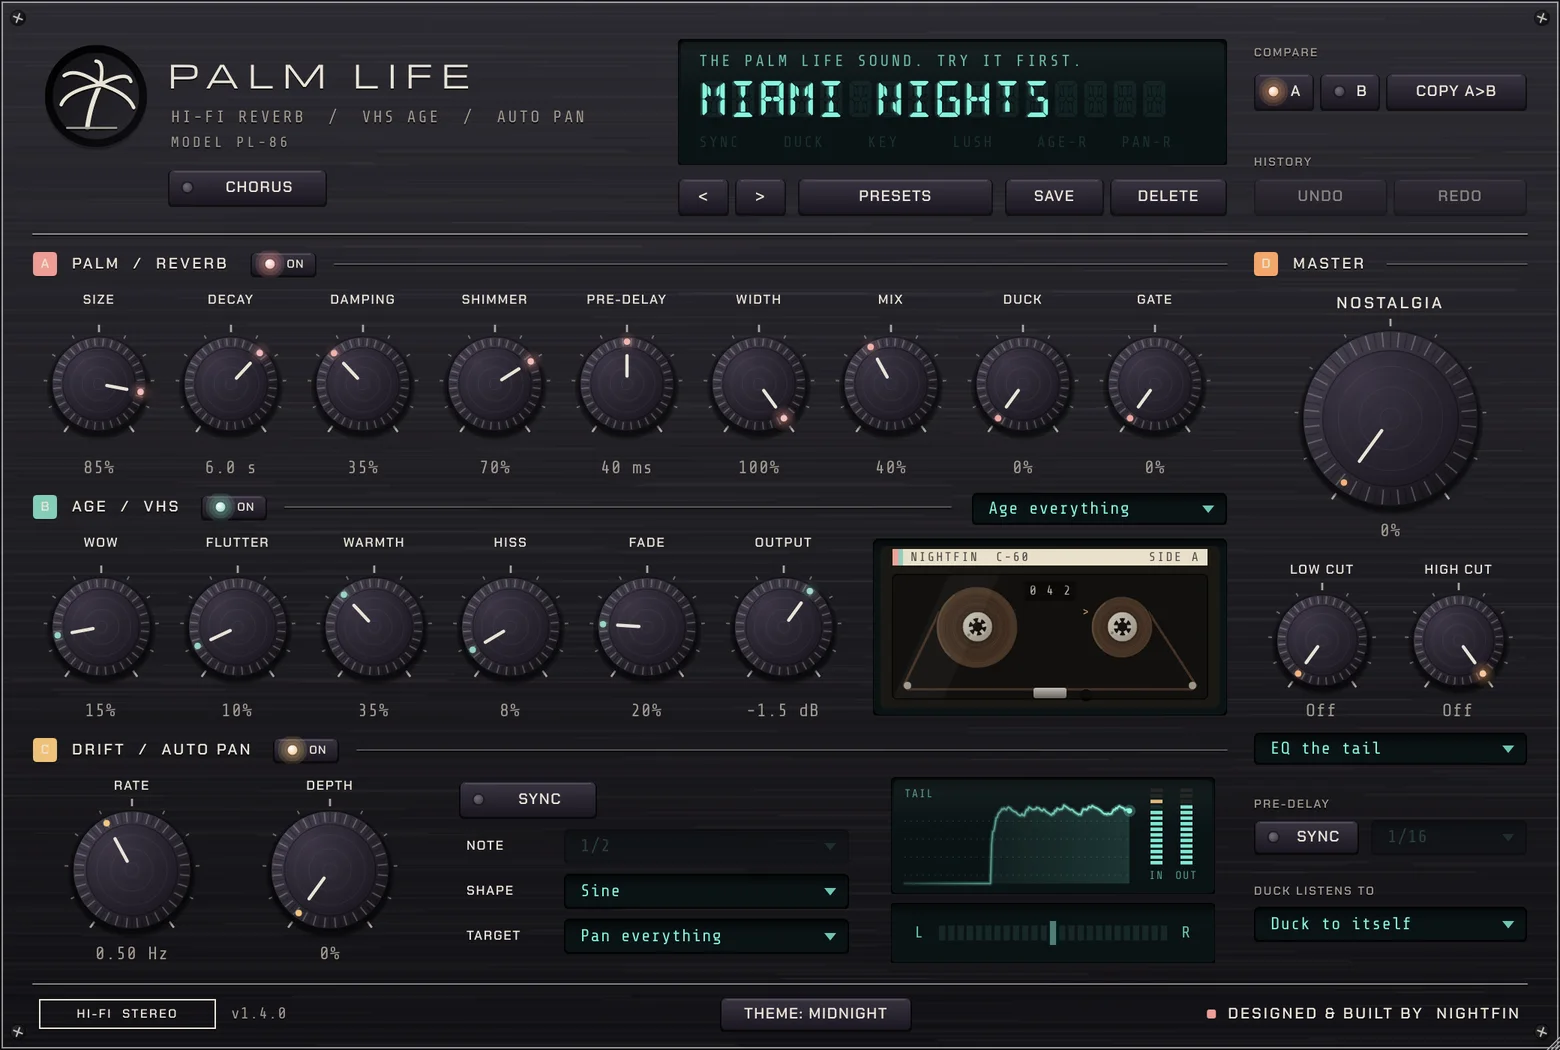
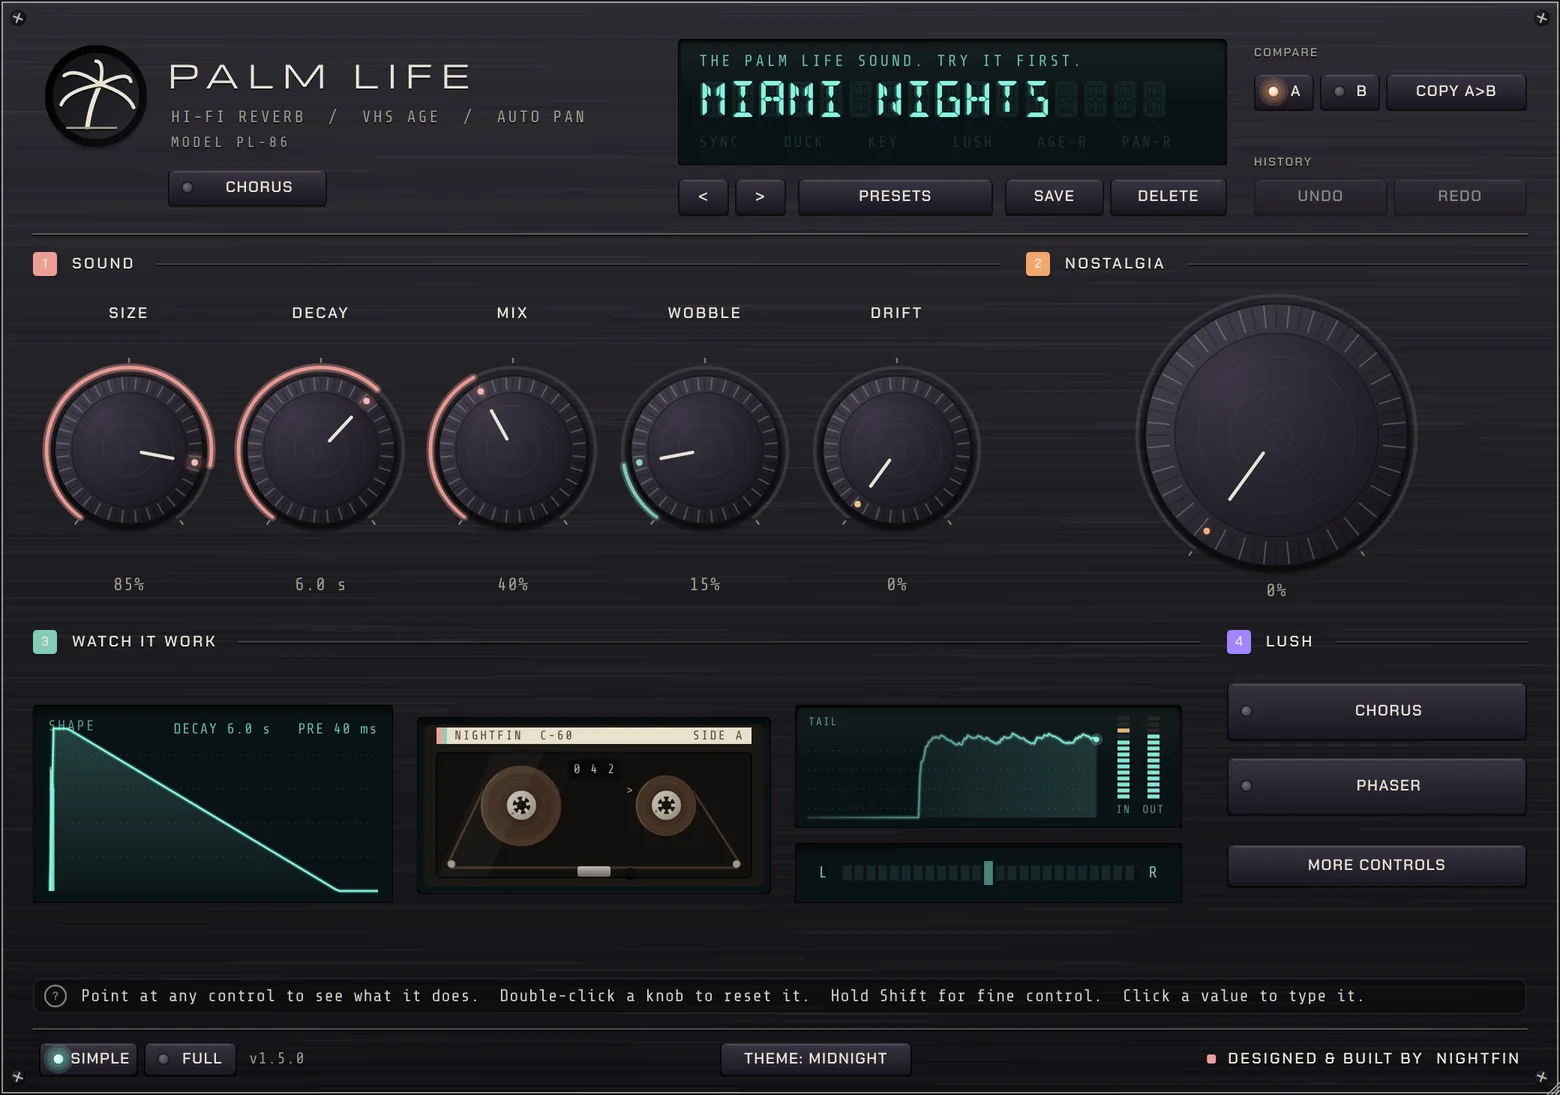
Site: 1.5 screenshots (Simple view) and new features

diff --git a/index.html b/index.html
@@ -272,7 +272,7 @@ footer .wrap { position: relative; z-index: 1; display: flex; flex-wrap: wrap; j
     <figure>
       <picture>
         <source id="hero-webp" srcset="assets/img/pl-sunset.webp" type="image/webp">
-        <img id="hero-img" src="assets/img/pl-sunset.jpg" width="1560" height="1050"
+        <img id="hero-img" src="assets/img/pl-sunset.jpg" width="1560" height="1095"
              alt="The Palm Life plug-in in its Sunset theme: dark knobs on a navy-to-orange sky, a glowing display, a cassette window, a reverb tail monitor and a big Nostalgia knob.">
       </picture>
       <figcaption id="hero-cap">Sunset theme. Try the others with the swatches at the top.</figcaption>
@@ -357,6 +357,9 @@ footer .wrap { position: relative; z-index: 1; display: flex; flex-wrap: wrap; j
       <p><strong>Four looks</strong>Studio, Midnight, Sunset and Dusk. The sky themes come alive with the music.</p>
       <p><strong>A faceplate that moves</strong>Cassette reels that spin and waver with the tape, a live tail monitor, and knobs that glow with your sound.</p>
       <p><strong>Gated reverb</strong>The huge 80s drum sound: a big room that slams shut after every hit.</p>
+      <p><strong>Simple or full</strong>SIMPLE shows the essentials, big. FULL shows every control. One click between them.</p>
+      <p><strong>A real preset browser</strong>Categories, search and favourites, with a note on every sound.</p>
+      <p><strong>Built-in help</strong>Point at any control and a help line tells you what it does. Double-click any knob to reset it.</p>
       <p><strong>Switch sections off</strong>Only want the auto-pan? Turn A and B off and they leave your sound untouched.</p>
       <p><strong>Live display</strong>The display shows the exact value of whatever you’re turning.</p>
       <p><strong>Resizable</strong>Scale the window from 75% to 200%. It remembers your size.</p>
@@ -371,10 +374,10 @@ footer .wrap { position: relative; z-index: 1; display: flex; flex-wrap: wrap; j
     <div class="sh"><span class="chip" style="background:var(--sunset)" aria-hidden="true"></span><h2 id="looks-title" class="engraved">FOUR LOOKS</h2><hr class="groove"></div>
     <p class="intro">Pick the faceplate that suits your studio. In Sunset and Dusk the sky comes alive: stars twinkle, the horizon glows with your music and the palms lean with the auto-pan. Click one to see this page in it too.</p>
     <div class="looks">
-      <button class="look" type="button" data-t="studio"   aria-pressed="false"><img src="assets/img/pl-studio.webp" width="1560" height="1050" loading="lazy" alt="Studio theme: champagne brushed metal."><span>STUDIO</span></button>
-      <button class="look" type="button" data-t="midnight" aria-pressed="false"><img src="assets/img/pl-midnight.webp" width="1560" height="1050" loading="lazy" alt="Midnight theme: dark graphite."><span>MIDNIGHT</span></button>
-      <button class="look" type="button" data-t="sunset"   aria-pressed="true"><img src="assets/img/pl-sunset.webp" width="1560" height="1050" loading="lazy" alt="Sunset theme: navy sky fading to an orange horizon."><span>SUNSET</span></button>
-      <button class="look" type="button" data-t="dusk"     aria-pressed="false"><img src="assets/img/pl-dusk.webp" width="1560" height="1050" loading="lazy" alt="Dusk theme: indigo sky fading to pink."><span>DUSK</span></button>
+      <button class="look" type="button" data-t="studio"   aria-pressed="false"><img src="assets/img/pl-studio.webp" width="1560" height="1095" loading="lazy" alt="Studio theme: champagne brushed metal."><span>STUDIO</span></button>
+      <button class="look" type="button" data-t="midnight" aria-pressed="false"><img src="assets/img/pl-midnight.webp" width="1560" height="1095" loading="lazy" alt="Midnight theme: dark graphite."><span>MIDNIGHT</span></button>
+      <button class="look" type="button" data-t="sunset"   aria-pressed="true"><img src="assets/img/pl-sunset.webp" width="1560" height="1095" loading="lazy" alt="Sunset theme: navy sky fading to an orange horizon."><span>SUNSET</span></button>
+      <button class="look" type="button" data-t="dusk"     aria-pressed="false"><img src="assets/img/pl-dusk.webp" width="1560" height="1095" loading="lazy" alt="Dusk theme: indigo sky fading to pink."><span>DUSK</span></button>
     </div>
     </div>
   </section>
